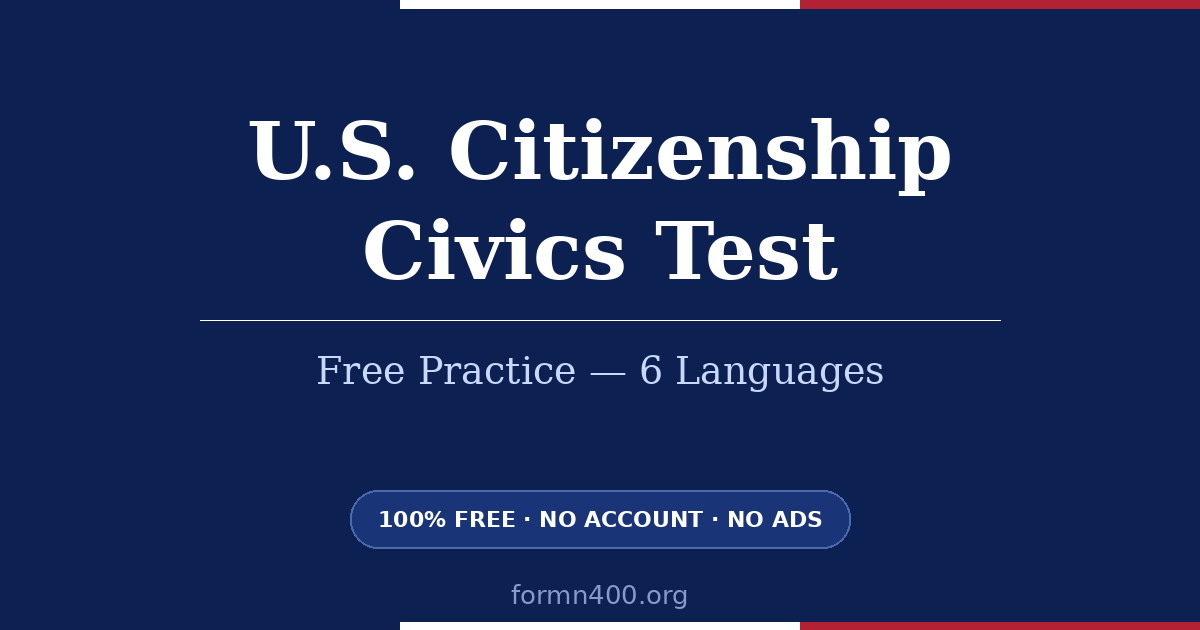
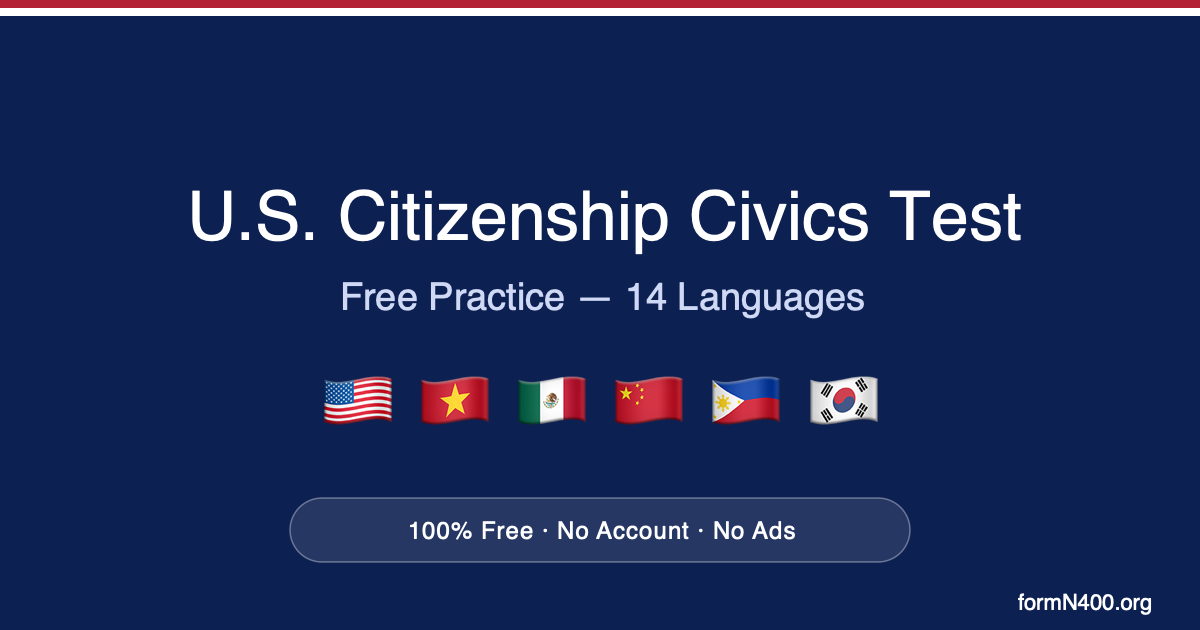
fix(seo): sync language count from LANG_META across all marketing artifacts
Site shipped 14 languages but every marketing surface still claimed 6.
This corrects the OG / Twitter / JSON-LD / hreflang stack and introduces
tools/sync-lang-count.js as the single mechanism for keeping the count
in sync when LANG_META grows or shrinks.

index.html — 10 substitutions:
  • meta description, og:title, og:description, twitter:title,
    twitter:description, JSON-LD description, JSON-LD featureList:
    "6 languages" → "14 languages". Phrasing rewritten so "official
    USCIS" describes the questions and "14 languages" describes the
    translation coverage (the old wording conflated them).
  • Visible About-screen "Data sources" entry now states USCIS-official
    translations (en/vi/es/zh/tl/ko/ht) separately from CLINIC
    translations (hi/th/lo/hmn/my/pt/ru).
  • hreflang block expanded from 6 to 14 entries — auto-generated
    from LANG_META keys.

og-image.svg: subtitle "Free Practice — 6 Languages" → "14 Languages".
og-image.png: regenerated from the SVG via macOS `sips`.

tools/sync-lang-count.js: new utility. Reads LANG_META from index.html,
counts entries, and patches all of the above. Idempotent regexes —
re-running on already-synced files reports zero changes. Run after
adding or removing a language:

  node tools/sync-lang-count.js          # dry-run
  node tools/sync-lang-count.js --apply  # write + regen PNG

CLAUDE.md: SEO section updated to point at the new tool and to refer
to LANG_META as the source of truth instead of hard-coding "six
[…]

diff --git a/tools/sync-lang-count.js b/tools/sync-lang-count.js
@@ -1,0 +1,150 @@
+// tools/sync-lang-count.js
+//
+// Reads LANG_META from index.html, validates its count, and patches every
+// marketing artifact that references the language count or list:
+//
+//   - 8 meta tags / JSON-LD fields in <head>
+//   - The hreflang link block (regenerated from LANG_META keys)
+//   - The visible "Data sources" list item in the About screen
+//   - og-image.svg subtitle text
+//
+// After updating, regenerates og-image.png via `sips` (macOS built-in).
+//
+// Idempotent: re-running on already-synced files reports zero changes.
+// Source of truth: LANG_META — single edit point.
+//
+// Usage:
+//   node tools/sync-lang-count.js           → dry-run (writes to /tmp)
+//   node tools/sync-lang-count.js --apply   → write to repo + regen PNG
+
+const fs   = require('fs');
+const vm   = require('vm');
+const path = require('path');
+const { execSync } = require('child_process');
+
+const ROOT  = path.resolve(__dirname, '..');
+const INDEX = path.join(ROOT, 'index.html');
+const SVG   = path.join(ROOT, 'og-image.svg');
+const PNG   = path.join(ROOT, 'og-image.png');
+
+// ─── Load LANG_META → array of language codes ─────────────────────────
+function loadLangs() {
+  const html = fs.readFileSync(INDEX, 'utf8');
+  const start = html.indexOf('const LANG_META = {');
+  if (start < 0) throw new Error('LANG_META declaration not found in index.html');
+  const end = html.indexOf('\n};', start);
+  if (end < 0) throw new Error('LANG_META block end not found');
+  const block = html.slice(start, end + 3);
+  const sb = { module: { exports: {} } };
+  vm.runInNewContext(block.replace('const LANG_META', 'module.exports.LANG_META'), sb);
+  return Object.keys(sb.module.exports.LANG_META);
+}
+
+const LANGS = loadLangs();
+const N = LANGS.length;
+console.log(`LANG_META: ${N} languages → [${LANGS.join(', ')}]\n`);
+
+// ─── Substitution rules for index.html ────────────────────────────────
+// Each rule's regex captures the count via `\d+` so the script remains
+// useful when LANG_META later grows or shrinks.
+const indexSubs = [
+  {
+    name: 'meta description',
+    re: /<meta name="description" content="[^"]*">/,
+    replace: () => `<meta name="description" content="Free practice for the U.S. naturalization civics test. 128 official USCIS questions, translated into ${N} languages, with state-specific answers and interview simulation. 100% free, no account.">`,
+  },
+  {
+    name: 'og:title',
+    re: /(<meta property="og:title" content="Free U\.S\. Citizenship Civics Test 2025 — )\d+( Languages">)/,
+    replace: (_, pre, post) => `${pre}${N}${post}`,
+  },
+  {
+    name: 'og:description',
+    re: /<meta property="og:description" content="[^"]*">/,
+    replace: () => `<meta property="og:description" content="Practice the official USCIS naturalization civics test for free. 128 questions, available in ${N} languages, with state-specific answers and interview simulation.">`,
+  },
+  {
+    name: 'twitter:title',
+    re: /(<meta name="twitter:title" content="Free U\.S\. Citizenship Test Practice — )\d+( Languages">)/,
+    replace: (_, pre, post) => `${pre}${N}${post}`,
+  },
+  {
+    name: 'twitter:description',
+    re: /<meta name="twitter:description" content="[^"]*">/,
+    replace: () => `<meta name="twitter:description" content="128 USCIS civics questions, available in ${N} languages. Interview simulation. State-specific answers. 100% free.">`,
+  },
+  {
+    name: 'JSON-LD description',
+    re: /("description": "Free practice app for the U\.S\. naturalization civics test\. Official USCIS questions in )\d+( languages\.")/,
+    replace: (_, pre, post) => `${pre}${N}${post}`,
+  },
+  {
+    name: 'JSON-LD featureList (lang count)',
+    re: /"\d+ languages(?:: [^"]+)?"/,
+    replace: () => `"${N} languages"`,
+  },
+  {
+    name: 'about.sources.translations (English fallback)',
+    re: /(<li data-i18n-html="about\.sources\.translations">)[^<]+(<\/li>)/,
+    replace: (_, pre, post) =>
+      `${pre}USCIS official translations (English, Vietnamese, Spanish, Chinese, Filipino, Korean, Haitian Creole) + CLINIC multilingual translations (Hindi, Thai, Lao, Hmong, Burmese, Portuguese, Russian)${post}`,
+  },
+  {
+    name: 'hreflang block',
+    // Matches the comment marker, all existing <link rel="alternate"> entries,
+    // and the x-default. Regenerates the block from LANGS so adding a new
+    // language to LANG_META auto-publishes a hreflang link.
+    re: /(<!--[^>]*multilingual SEO[^>]*-->\n)(?:<link rel="alternate" hreflang="[^"]+" href="[^"]+">\n)+(<link rel="alternate" hreflang="x-default" href="[^"]+">)/,
+    replace: (_, header, xDefault) =>
+      header +
+      LANGS.map(L =>
+        `<link rel="alternate" hreflang="${L}" href="https://formn400.org${L === 'en' ? '' : '/?lang=' + L}">`
+      ).join('\n') + '\n' + xDefault,
+  },
+];
+
+// Apply rules
+let html = fs.readFileSync(INDEX, 'utf8');
+const log = [];
+for (const sub of indexSubs) {
+  const newHtml = html.replace(sub.re, sub.replace);
+  if (newHtml === html) log.push(`  ⚠ ${sub.name}: no change (already synced or anchor not found)`);
+  else                 { log.push(`  ✓ ${sub.name}: updated`); html = newHtml; }
+}
+
+// SVG subtitle
+let svg = fs.readFileSync(SVG, 'utf8');
+const svgNew = svg.replace(/(Free Practice — )\d+( Languages?)/, (_, a, b) => `${a}${N}${b}`);
+if (svgNew !== svg) { log.push('  ✓ og-image.svg subtitle: updated'); svg = svgNew; }
+else                log.push('  ⚠ og-image.svg: no change');
+
+console.log('Substitutions:');
+log.forEach(l => console.log(l));
+
+const APPLY = process.argv.includes('--apply');
+
+if (!APPLY) {
+  fs.mkdirSync('/tmp/n400-audit', { recursive: true });
+  fs.writeFileSync('/tmp/n400-audit/sync-index.html', html, 'utf8');
+  fs.writeFileSync('/tmp/n400-audit/sync-og-image.svg', svg, 'utf8');
+  console.log('\n[DRY] Outputs:');
+  console.log('  /tmp/n400-audit/sync-index.html');
+  console.log('  /tmp/n400-audit/sync-og-image.svg');
+  console.log('\nRun with --apply to write to repo + regenerate PNG.');
+  process.exit(0);
+}
+
+// APPLY
+fs.writeFileSync(INDEX, html, 'utf8');
+fs.writeFileSync(SVG, svg, 'utf8');
+console.log('\n✓ Wrote index.html + og-image.svg');
+
+try {
+  execSync(`sips -s format png "${SVG}" --out "${PNG}"`, { stdio: ['ignore', 'pipe', 'pipe'] });
+  const stat = fs.statSync(PNG);
+  console.log(`✓ Regenerated og-image.png via sips (${stat.size} bytes)`);
+} catch (e) {
+  console.log('✗ sips failed:', e.message);
+  console.log(`  Run manually: sips -s format png ${SVG} --out ${PNG}`);
+  process.exit(1);
+}

diff --git a/index.html b/index.html
@@ -6,7 +6,7 @@
 
 <!-- ── Primary SEO ─────────────────────────────────────────────────── -->
 <title>Free U.S. Citizenship Civics Test Practice 2025 | formN400.org</title>
-<meta name="description" content="Free practice for the U.S. naturalization civics test. 128 official USCIS questions, 6 languages (English, Tiếng Việt, Español, 中文, Filipino, 한국어), state-specific answers, interview simulation. 100% free, no account required.">
+<meta name="description" content="Free practice for the U.S. naturalization civics test. 128 official USCIS questions, translated into 14 languages, with state-specific answers and interview simulation. 100% free, no account.">
 <meta name="keywords" content="US citizenship test, civics test 2025, naturalization test, USCIS civics, thi quoc tich my, luyện thi quốc tịch, citizenship practice, N-400, 128 questions, free citizenship test">
 <meta name="robots" content="index, follow">
 <meta name="language" content="en, vi, es, zh, tl, ko">
@@ -19,8 +19,8 @@
 <link rel="manifest" href="/manifest.json">
 
 <!-- ── Open Graph (Facebook, LinkedIn) ────────────────────────────── -->
-<meta property="og:title" content="Free U.S. Citizenship Civics Test 2025 — 6 Languages">
-<meta property="og:description" content="Practice the official USCIS naturalization civics test for free. 128 questions, Vietnamese, Spanish, Chinese, Filipino, Korean. State-specific answers. No account needed.">
+<meta property="og:title" content="Free U.S. Citizenship Civics Test 2025 — 14 Languages">
+<meta property="og:description" content="Practice the official USCIS naturalization civics test for free. 128 questions, available in 14 languages, with state-specific answers and interview simulation.">
 <meta property="og:url" content="https://formn400.org">
 <meta property="og:type" content="website">
 <meta property="og:image" content="https://formn400.org/og-image.png">
@@ -33,8 +33,8 @@
 
 <!-- ── Twitter Card ────────────────────────────────────────────────── -->
 <meta name="twitter:card" content="summary_large_image">
-<meta name="twitter:title" content="Free U.S. Citizenship Test Practice — 6 Languages">
-<meta name="twitter:description" content="128 official USCIS civics questions. Vietnamese, Spanish, Chinese, Filipino, Korean. Interview simulation. 100% free.">
+<meta name="twitter:title" content="Free U.S. Citizenship Test Practice — 14 Languages">
+<meta name="twitter:description" content="128 USCIS civics questions, available in 14 languages. Interview simulation. State-specific answers. 100% free.">
 <meta name="twitter:image" content="https://formn400.org/og-image.png">
 
 <!-- ── hreflang (multilingual SEO) ─────────────────────────────────── -->
@@ -44,6 +44,14 @@
 <link rel="alternate" hreflang="zh" href="https://formn400.org/?lang=zh">
 <link rel="alternate" hreflang="tl" href="https://formn400.org/?lang=tl">
 <link rel="alternate" hreflang="ko" href="https://formn400.org/?lang=ko">
+<link rel="alternate" hreflang="hi" href="https://formn400.org/?lang=hi">
+<link rel="alternate" hreflang="ht" href="https://formn400.org/?lang=ht">
+<link rel="alternate" hreflang="th" href="https://formn400.org/?lang=th">
+<link rel="alternate" hreflang="lo" href="https://formn400.org/?lang=lo">
+<link rel="alternate" hreflang="hmn" href="https://formn400.org/?lang=hmn">
+<link rel="alternate" hreflang="my" href="https://formn400.org/?lang=my">
+<link rel="alternate" hreflang="pt" href="https://formn400.org/?lang=pt">
+<link rel="alternate" hreflang="ru" href="https://formn400.org/?lang=ru">
 <link rel="alternate" hreflang="x-default" href="https://formn400.org">
 
 <!-- ── Structured data (Schema.org) ────────────────────────────────── -->
@@ -53,7 +61,7 @@
   "@type": "WebApplication",
   "name": "formN400 — Free U.S. Citizenship Civics Test",
   "url": "https://formn400.org",
-  "description": "Free practice app for the U.S. naturalization civics test. Official USCIS questions in 6 languages.",
+  "description": "Free practice app for the U.S. naturalization civics test. Official USCIS questions in 14 languages.",
   "applicationCategory": "EducationApplication",
   "operatingSystem": "Web",
   "offers": {
@@ -80,7 +88,7 @@
   "featureList": [
     "128 official USCIS 2025 civics questions",
     "100 official USCIS 2008 civics questions",
-    "6 languages: English, Vietnamese, Spanish, Chinese, Filipino, Korean",
+    "14 languages",
     "State-specific answers for all 50 states",
     "Interview simulation with 5 groups",
     "Speak practice mode",
@@ -2750,7 +2758,7 @@
       <ul class="page-list">
         <li><a href="https://www.uscis.gov/citizenship" target="_blank" rel="noopener noreferrer" data-i18n="about.sources.uscis_2025">USCIS 2025 Civics Test (128 questions)</a></li>
         <li><a href="https://www.uscis.gov/citizenship" target="_blank" rel="noopener noreferrer" data-i18n="about.sources.uscis_2008">USCIS 2008 Civics Test (100 questions)</a></li>
-        <li data-i18n-html="about.sources.translations">Official USCIS translations — Vietnamese, Spanish, Chinese, Filipino, Korean</li>
+        <li data-i18n-html="about.sources.translations">USCIS official translations (English, Vietnamese, Spanish, Chinese, Filipino, Korean, Haitian Creole) + CLINIC multilingual translations (Hindi, Thai, Lao, Hmong, Burmese, Portuguese, Russian)</li>
         <li data-i18n-html="about.sources.officials">State officials data — <a href="https://www.house.gov" target="_blank" rel="noopener noreferrer">house.gov</a>, <a href="https://www.senate.gov" target="_blank" rel="noopener noreferrer">senate.gov</a></li>
       </ul>
     </section>

diff --git a/CLAUDE.md b/CLAUDE.md
@@ -199,8 +199,17 @@ verify it does not violate this invariant.
 The site is built for organic search. The `<head>` block carries: a
 descriptive `<title>` (per-language, updated via `document.title` on
 `selectLang`), `<meta name="description">`, OG and Twitter card tags
-pointing at `/og-image.png`, `hreflang` links for all six languages, and
-a Schema.org `WebApplication` JSON-LD block.
+pointing at `/og-image.png`, `hreflang` links for every language in
+`LANG_META`, and a Schema.org `WebApplication` JSON-LD block.
+
+The language count in marketing copy (meta tags, JSON-LD, og-image.svg)
+and the hreflang block are kept in sync with `LANG_META` by
+`tools/sync-lang-count.js`. Run it after adding or removing a language:
+
+```
+node tools/sync-lang-count.js          # dry-run
+node tools/sync-lang-count.js --apply  # write + regenerate og-image.png via sips
+```
 
 Sister files at the repo root:
 
@@ -212,9 +221,10 @@ Sister files at the repo root:
 **Binary assets still need to be generated** and committed alongside the
 repo before they go live:
 
-- `og-image.png` — convert `og-image.svg` (1200×630). Use
-  `rsvg-convert -w 1200 -h 630 og-image.svg -o og-image.png` (or any
-  other rasterizer); the OG/Twitter meta tags both point at the PNG.
+- `og-image.png` — regenerated from `og-image.svg` (1200×630) by
+  `tools/sync-lang-count.js --apply` (uses macOS `sips`). If running
+  on a non-macOS host, install librsvg and invoke
+  `rsvg-convert -w 1200 -h 630 og-image.svg -o og-image.png` manually.
 - `icon-192.png` and `icon-512.png` — plain navy circle with "N400"
   centered is sufficient. Used by `manifest.json` for PWA install.
 